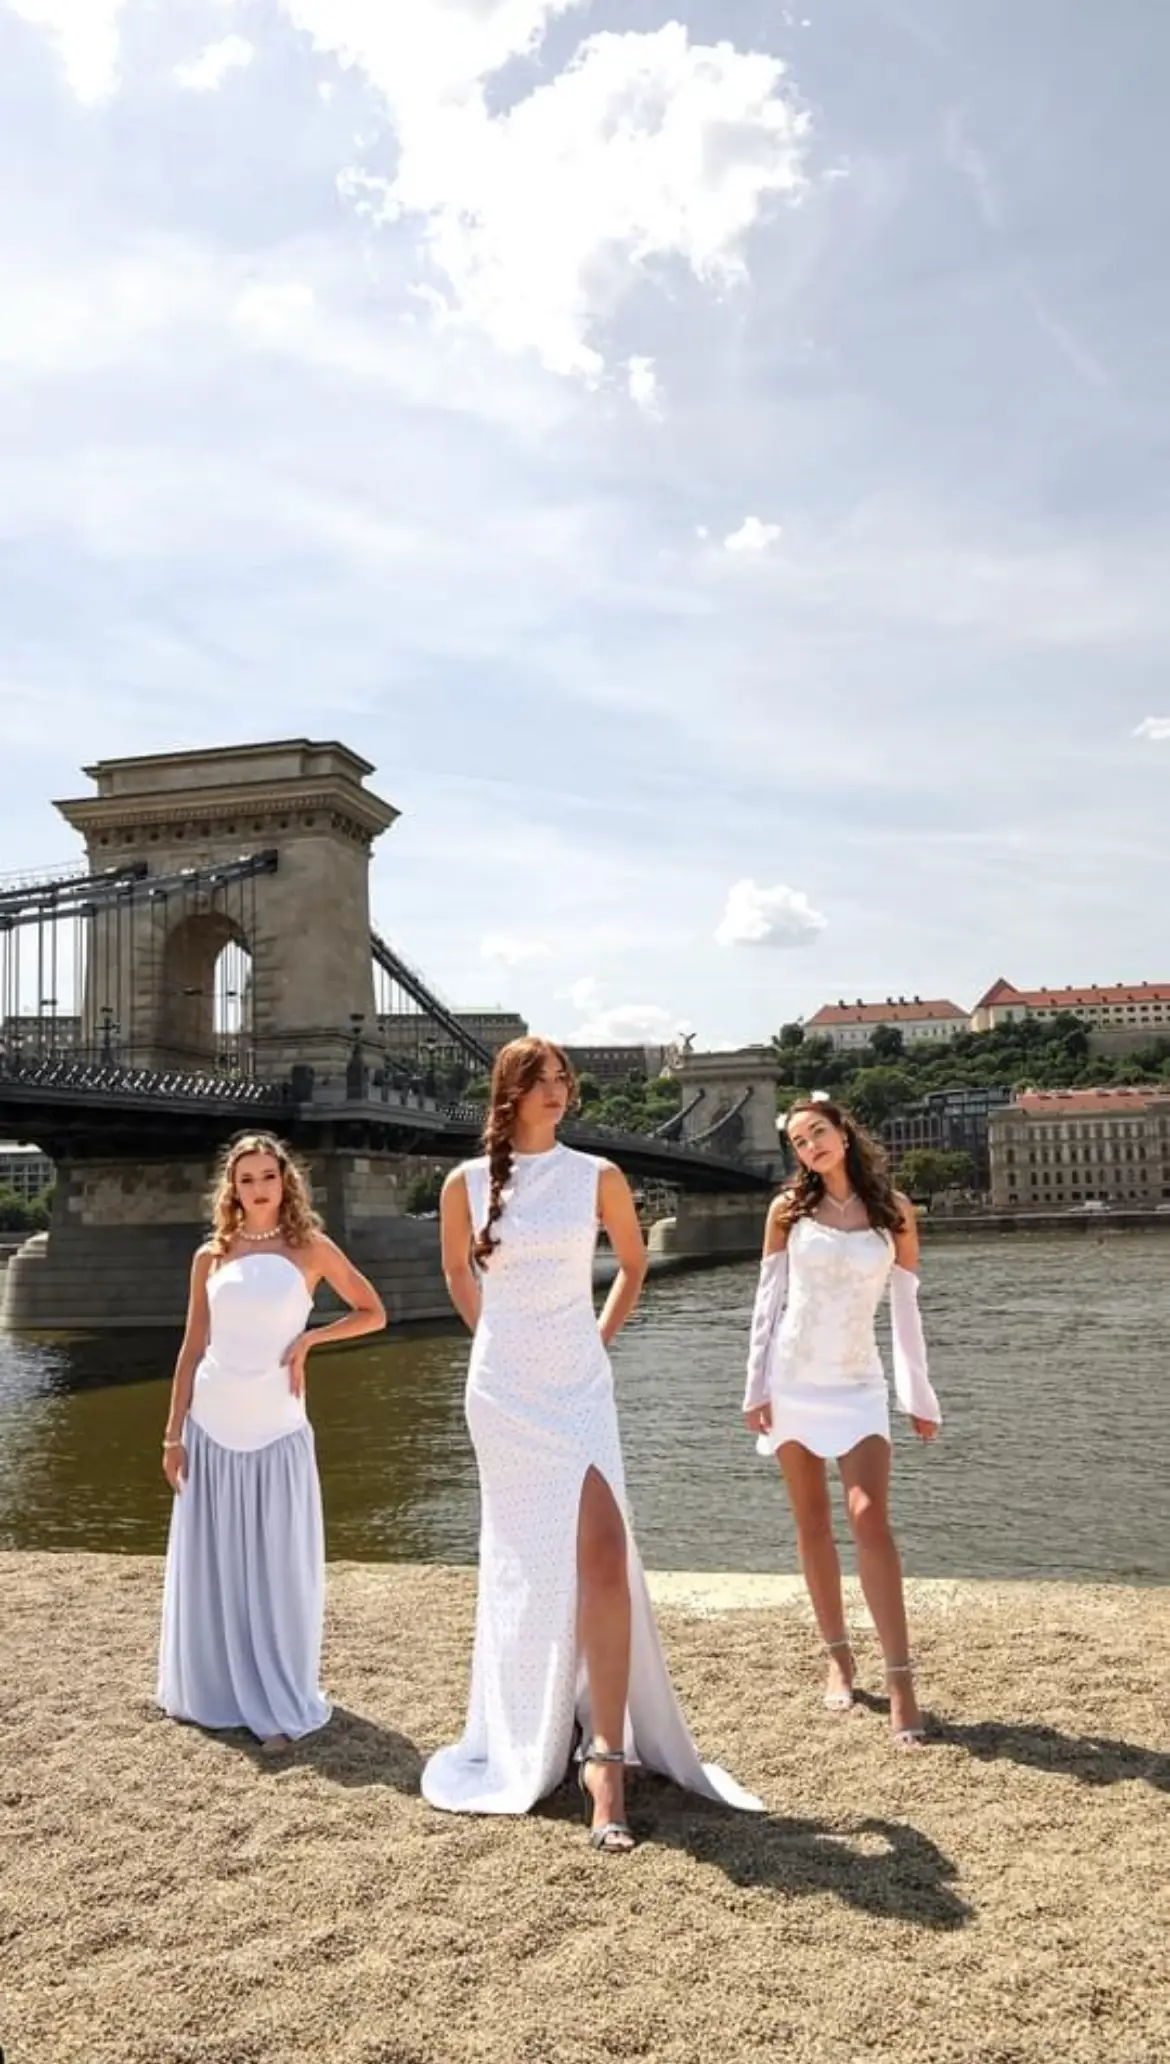
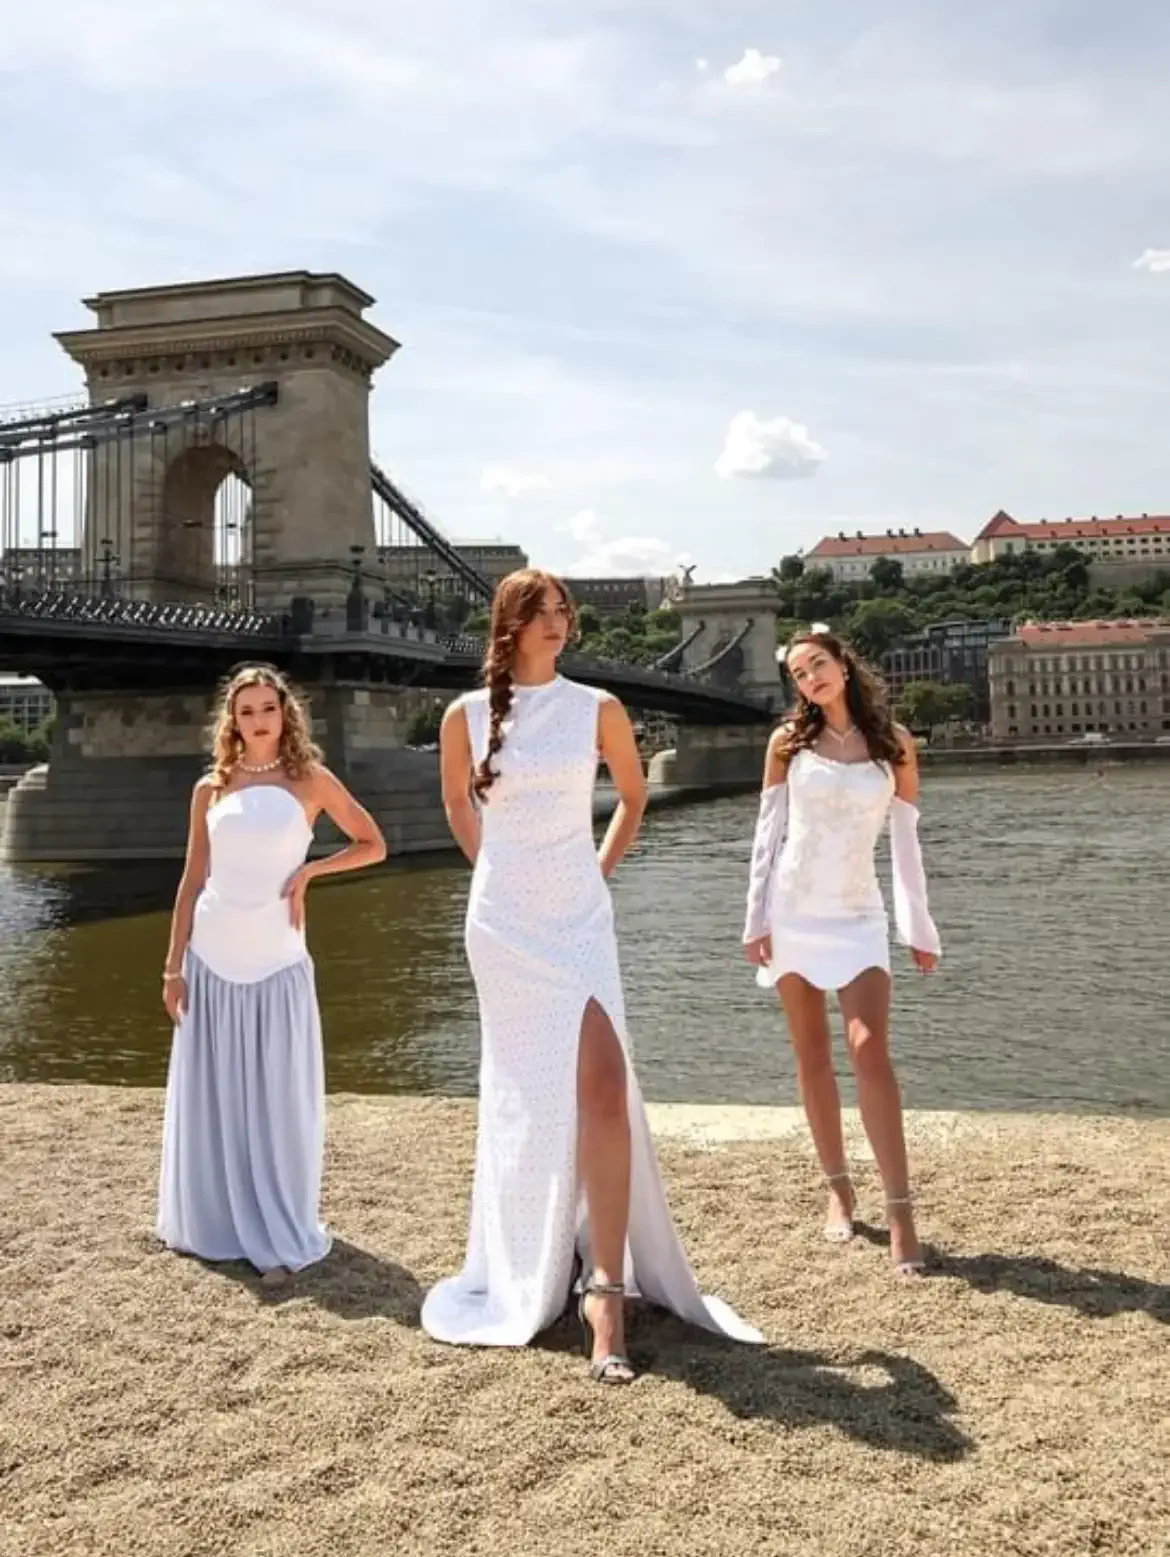
optimize the pictures

diff --git a/index.html b/index.html
@@ -259,92 +259,92 @@
       <div class="row mt-4 g-3">
         <div class="col-md-4 gallery-item">
           <a href="img/FB_IMG_1505071047802.webp" class="glightbox gallery-item" data-gallery="galeria" data-title="Egyedi ruha">
-            <img src="img/FB_IMG_1505071047802.webp" alt="Egyedi ruha" title="Egyedi ruha" class="img-fluid images" loading="lazy">
+            <img src="img/FB_IMG_1505071047802.webp" alt="Egyedi ruha" title="Egyedi ruha" class="img-fluid images_y" loading="lazy">
           </a>          
         </div>
         <div class="col-md-4 gallery-item">
           <a href="img/feher_ruha.webp" class="glightbox gallery-item" data-gallery="galeria" data-title="Egyedi ruha">
-            <img src="img/feher_ruha.webp" alt="Egyedi ruha" title="Egyedi ruha" class="img-fluid images" loading="lazy">
+            <img src="img/feher_ruha.webp" alt="Egyedi ruha" title="Egyedi ruha" class="img-fluid images_x" loading="lazy">
           </a>          
         </div>
         <div class="col-md-4 gallery-item">
           <a href="img/IMG_2452.webp" class="glightbox gallery-item" data-gallery="galeria" data-title="Egyedi ruha">
-            <img src="img/IMG_2452.webp" alt="Egyedi ruha" title="Egyedi ruha" class="img-fluid images" loading="lazy">
+            <img src="img/IMG_2452.webp" alt="Egyedi ruha" title="Egyedi ruha" class="img-fluid images_y" loading="lazy">
           </a>          
         </div>
         <div class="col-md-4 gallery-item">
           <a href="img/fekete_ruha.webp" class="glightbox gallery-item" data-gallery="galeria" data-title="Egyedi ruha">
-            <img src="img/fekete_ruha.webp" alt="Egyedi ruha" title="Egyedi ruha" class="img-fluid images" loading="lazy">
+            <img src="img/fekete_ruha.webp" alt="Egyedi ruha" title="Egyedi ruha" class="img-fluid images_x" loading="lazy">
           </a>          
         </div>
         <div class="col-md-4 gallery-item">
           <a href="img/IMG-ac32c3da37aa27cc6db7b6a495b6e62c-V.webp" class="glightbox gallery-item" data-gallery="galeria" data-title="Egyedi ruha">
-            <img src="img/IMG-ac32c3da37aa27cc6db7b6a495b6e62c-V.webp" alt="Egyedi ruha" title="Egyedi ruha" class="img-fluid images" loading="lazy">
+            <img src="img/IMG-ac32c3da37aa27cc6db7b6a495b6e62c-V.webp" alt="Egyedi ruha" title="Egyedi ruha" class="img-fluid images_y" loading="lazy">
           </a>          
         </div>
         <div class="col-md-4 gallery-item">
           <a href="img/IMG_1259.webp" class="glightbox gallery-item" data-gallery="galeria" data-title="Egyedi ruha">
-            <img src="img/IMG_1259.webp" alt="Egyedi ruha" title="Egyedi ruha" class="img-fluid images" loading="lazy">
+            <img src="img/IMG_1259.webp" alt="Egyedi ruha" title="Egyedi ruha" class="img-fluid images_y" loading="lazy">
           </a>          
         </div>
         <div class="col-md-4 gallery-item">
           <a href="img/IMG_1264.webp" class="glightbox gallery-item" data-gallery="galeria" data-title="Egyedi ruha">
-            <img src="img/IMG_1264.webp" alt="Egyedi ruha" title="Egyedi ruha" class="img-fluid images" loading="lazy">
+            <img src="img/IMG_1264.webp" alt="Egyedi ruha" title="Egyedi ruha" class="img-fluid images_y" loading="lazy">
           </a>          
         </div>
         <div class="col-md-4 gallery-item">
           <a href="img/IMG_1345.webp" class="glightbox gallery-item" data-gallery="galeria" data-title="Egyedi ruha">
-            <img src="img/IMG_1345.webp" alt="Egyedi ruha" title="Egyedi ruha" class="img-fluid images" loading="lazy">
+            <img src="img/IMG_1345.webp" alt="Egyedi ruha" title="Egyedi ruha" class="img-fluid images_y" loading="lazy">
           </a>          
         </div>
         <div class="col-md-4 gallery-item">
           <a href="img/IMG_1349.webp" class="glightbox gallery-item" data-gallery="galeria" data-title="Egyedi ruha">
-            <img src="img/IMG_1349.webp" alt="Egyedi ruha" title="Egyedi ruha" class="img-fluid images" loading="lazy">
+            <img src="img/IMG_1349.webp" alt="Egyedi ruha" title="Egyedi ruha" class="img-fluid images_y" loading="lazy">
           </a>          
         </div>
         <div class="col-md-4 gallery-item">
           <a href="img/IMG_2117.webp" class="glightbox gallery-item" data-gallery="galeria" data-title="Egyedi ruha">
-            <img src="img/IMG_2117.webp" alt="Egyedi ruha" title="Egyedi ruha" class="img-fluid images" loading="lazy">
+            <img src="img/IMG_2117.webp" alt="Egyedi ruha" title="Egyedi ruha" class="img-fluid images_y" loading="lazy">
           </a>          
         </div>
         <div class="col-md-4 gallery-item">
           <a href="img/IMG_2118.webp" class="glightbox gallery-item" data-gallery="galeria" data-title="Egyedi ruha">
-            <img src="img/IMG_2118.webp" alt="Egyedi ruha" title="Egyedi ruha" class="img-fluid images" loading="lazy">
+            <img src="img/IMG_2118.webp" alt="Egyedi ruha" title="Egyedi ruha" class="img-fluid images_y" loading="lazy">
           </a>          
         </div>
         <div class="col-md-4 gallery-item">
           <a href="img/IMG_2952.webp" class="glightbox gallery-item" data-gallery="galeria" data-title="Egyedi ruha">
-            <img src="img/IMG_2952.webp" alt="Egyedi ruha" title="Egyedi ruha" class="img-fluid images" loading="lazy">
+            <img src="img/IMG_2952.webp" alt="Egyedi ruha" title="Egyedi ruha" class="img-fluid images_y" loading="lazy">
           </a>          
         </div>
         <div class="col-md-4 gallery-item">
           <a href="img/IMG_2953.webp" class="glightbox gallery-item" data-gallery="galeria" data-title="Egyedi ruha">
-            <img src="img/IMG_2953.webp" alt="Egyedi ruha" title="Egyedi ruha" class="img-fluid images" loading="lazy">
+            <img src="img/IMG_2953.webp" alt="Egyedi ruha" title="Egyedi ruha" class="img-fluid images_y" loading="lazy">
           </a>          
         </div>
         <div class="col-md-4 gallery-item">
           <a href="img/IMG_2956.webp" class="glightbox gallery-item" data-gallery="galeria" data-title="Egyedi ruha">
-            <img src="img/IMG_2956.webp" alt="Egyedi ruha" title="Egyedi ruha" class="img-fluid images" loading="lazy">
+            <img src="img/IMG_2956.webp" alt="Egyedi ruha" title="Egyedi ruha" class="img-fluid images_y" loading="lazy">
           </a>          
         </div>
         <div class="col-md-4 gallery-item">
           <a href="img/IMG_2957.webp" class="glightbox gallery-item" data-gallery="galeria" data-title="Egyedi ruha">
-            <img src="img/IMG_2957.webp" alt="Egyedi ruha" title="Egyedi ruha" class="img-fluid images" loading="lazy">
+            <img src="img/IMG_2957.webp" alt="Egyedi ruha" title="Egyedi ruha" class="img-fluid images_y" loading="lazy">
           </a>          
         </div>
         <div class="col-md-4 gallery-item">
           <a href="img/kek_ruha.webp" class="glightbox gallery-item" data-gallery="galeria" data-title="Egyedi ruha">
-            <img src="img/kek_ruha.webp" alt="Egyedi ruha" title="Egyedi ruha" class="img-fluid images" loading="lazy">
+            <img src="img/kek_ruha.webp" alt="Egyedi ruha" title="Egyedi ruha" class="img-fluid images_x" loading="lazy">
           </a>          
         </div>
         <div class="col-md-4 gallery-item">
           <a href="img/received_902223916972922.webp" class="glightbox gallery-item" data-gallery="galeria" data-title="Egyedi ruha">
-            <img src="img/received_902223916972922.webp" alt="Egyedi ruha" title="Egyedi ruha" class="img-fluid images" loading="lazy">
+            <img src="img/received_902223916972922.webp" alt="Egyedi ruha" title="Egyedi ruha" class="img-fluid images_y" loading="lazy">
           </a>          
         </div>
         <div class="col-md-4 gallery-item">
           <a href="img/rozsaszin_ruha.webp" class="glightbox gallery-item" data-gallery="galeria" data-title="Egyedi ruha">
-            <img src="img/rozsaszin_ruha.webp" alt="Egyedi ruha" title="Egyedi ruha" class="img-fluid images" loading="lazy">
+            <img src="img/rozsaszin_ruha.webp" alt="Egyedi ruha" title="Egyedi ruha" class="img-fluid images_x" loading="lazy">
           </a>          
         </div>
       </div>

diff --git a/css/style.css b/css/style.css
@@ -36,8 +36,25 @@ h2 {
   color: white;
 }
 
-.images {
-  aspect-ratio: 3 / 2;
+.gallery-item {
+  display: flex;
+  justify-content: center;
+  align-items: center;
+  overflow: hidden;
+}
+
+.images_x, .images_y {
+  display: flex;
+  justify-content: center;
+  align-items: center;
+}
+
+.images_x {
+  aspect-ratio: 4 / 3;
+}
+
+.images_y {
+  aspect-ratio: 3 / 4;
 }
 
 footer {
